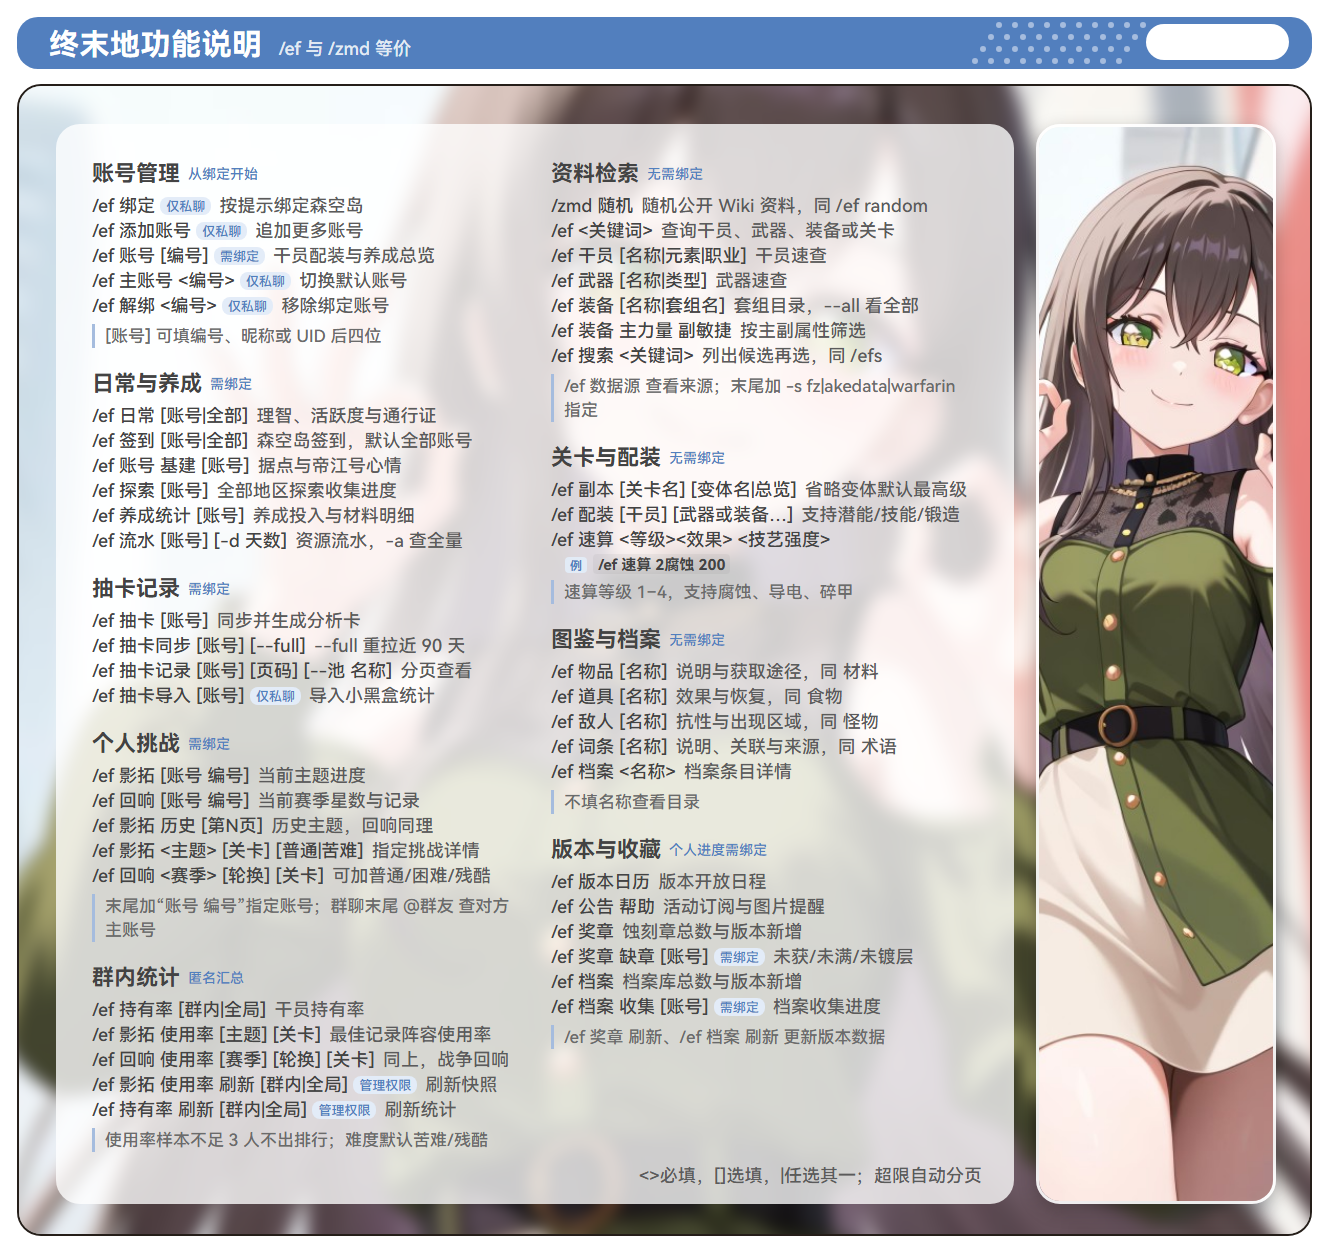
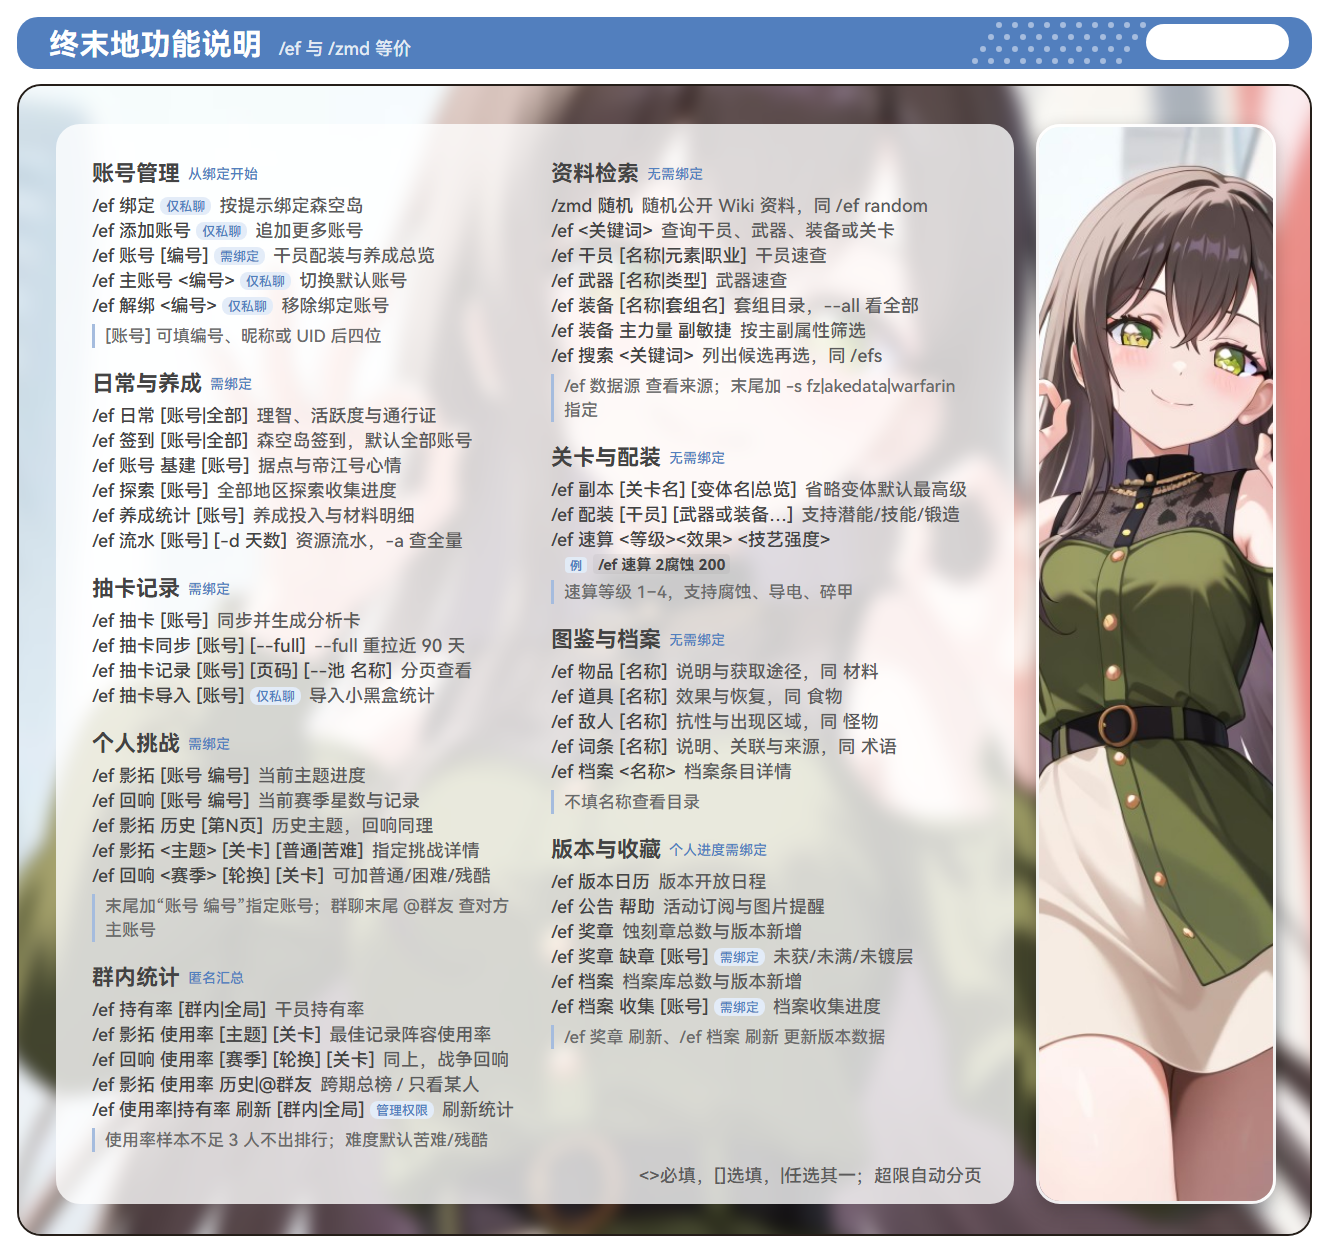
docs(endfield): 使用率历史总榜补进帮助与待办
- scripts/help_pages.json：群内统计补「使用率 历史|@群友」一行，两条刷新合并为一条，
  重渲 assets/image/help/endfield.png（1325x1252）。
- TODO.md：勾掉历史总榜与 @群友 两条，P2 去掉已实现的跨期合并。

Changed region(s): [[0.0928, 0.8411, 0.3713, 0.9034]]

diff --git a/TODO.md b/TODO.md
@@ -202,8 +202,10 @@
   - [x] 实现 `plugins/endfield/usage/`（models / service / draw）与 `EndfieldStore` 的三张新表
   - [x] 接入 `使用率` 保留字解析、帮助文案与帮助图
   - [x] 挑战卡查询成功后搭便车落库，保证与后台批次不互相覆盖更新鲜的数据
-  - [x] 补齐批次、聚合、渲染、命令解析与空样本测试（`tests/test_endfield_usage_stats.py`，11 项）
-- [ ] P2：`All` 档位（跨难度/跨期合并）、全局范围排行、干员 × 关卡矩阵
+  - [x] 补齐批次、聚合、渲染、命令解析与空样本测试（`tests/test_endfield_usage_stats.py`）
+  - [x] 历史总使用率：`使用率 历史` 把全部期次合并成一份干员总榜（分母为记录条数），不分页，期次名只用来筛期次
+  - [x] `使用率 @群友`：只看该成员的绑定角色（右上角「个人统计」），可与 `历史` 叠加
+- [ ] P2：`All` 档位（跨难度合并）、全局范围排行、干员 × 关卡矩阵
 
 ## Codex / AI 雷达
 
